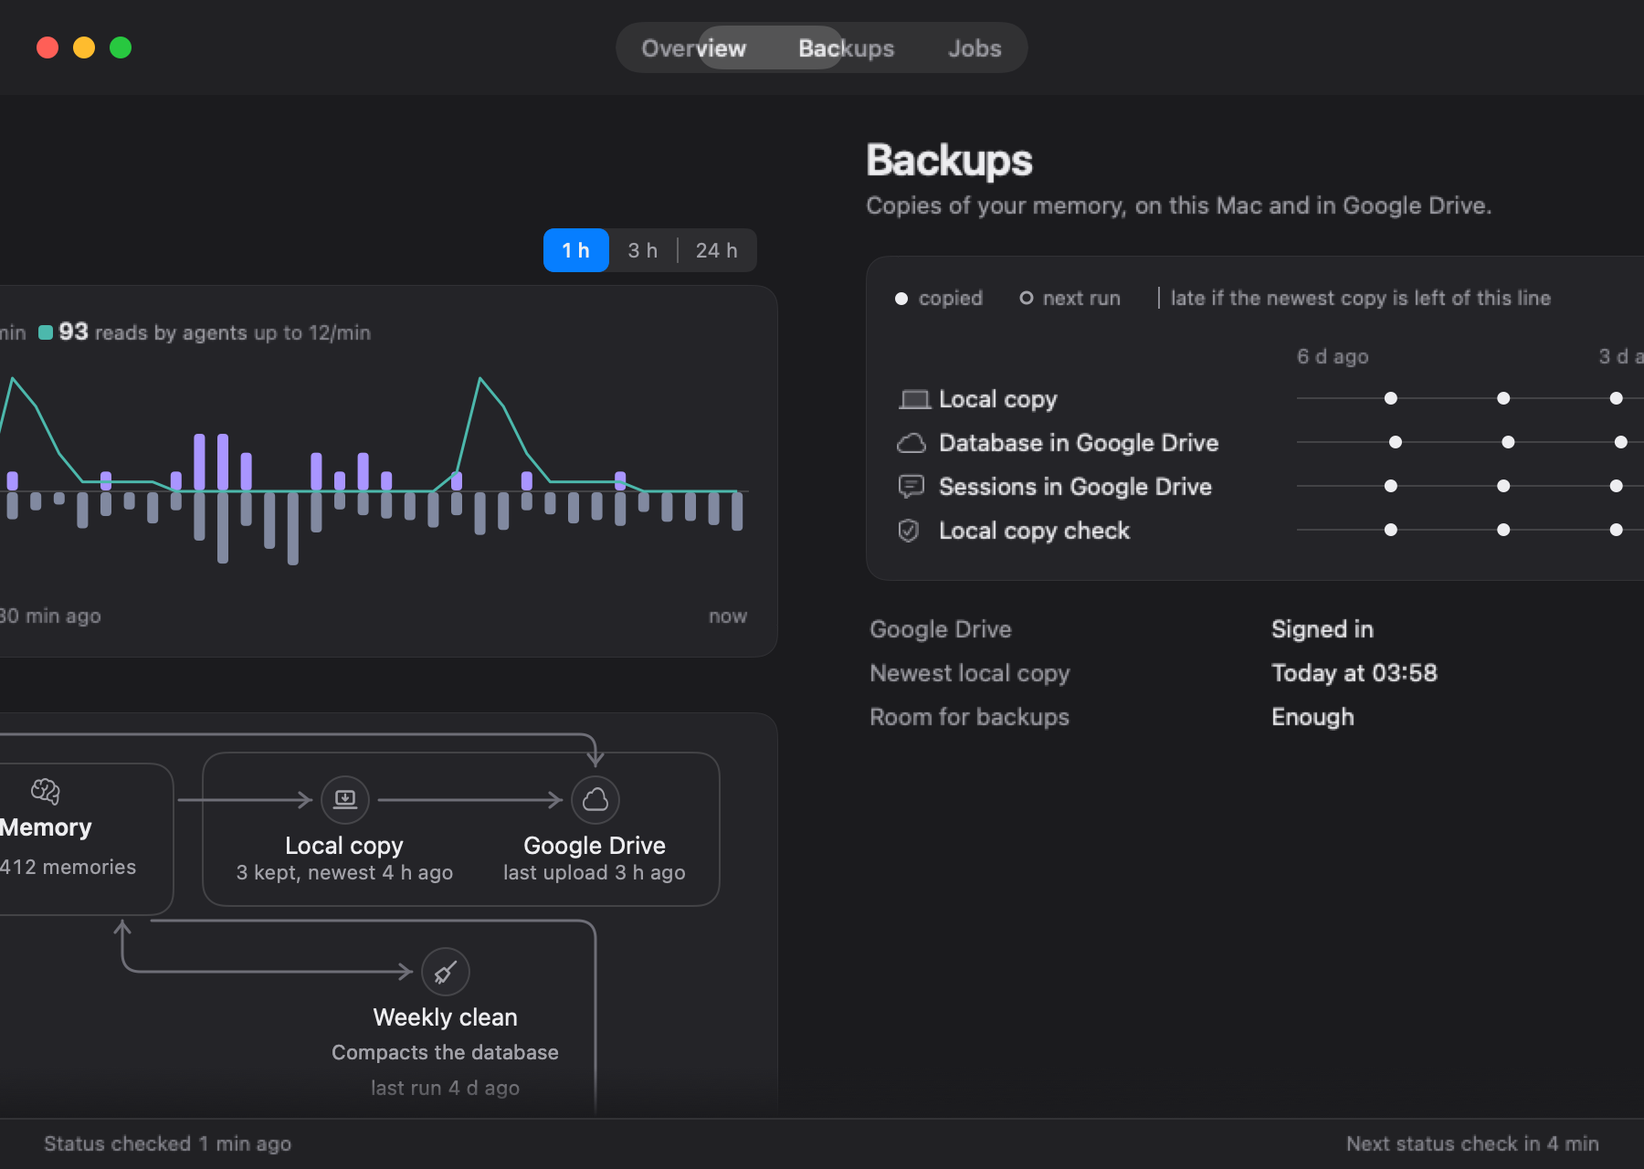
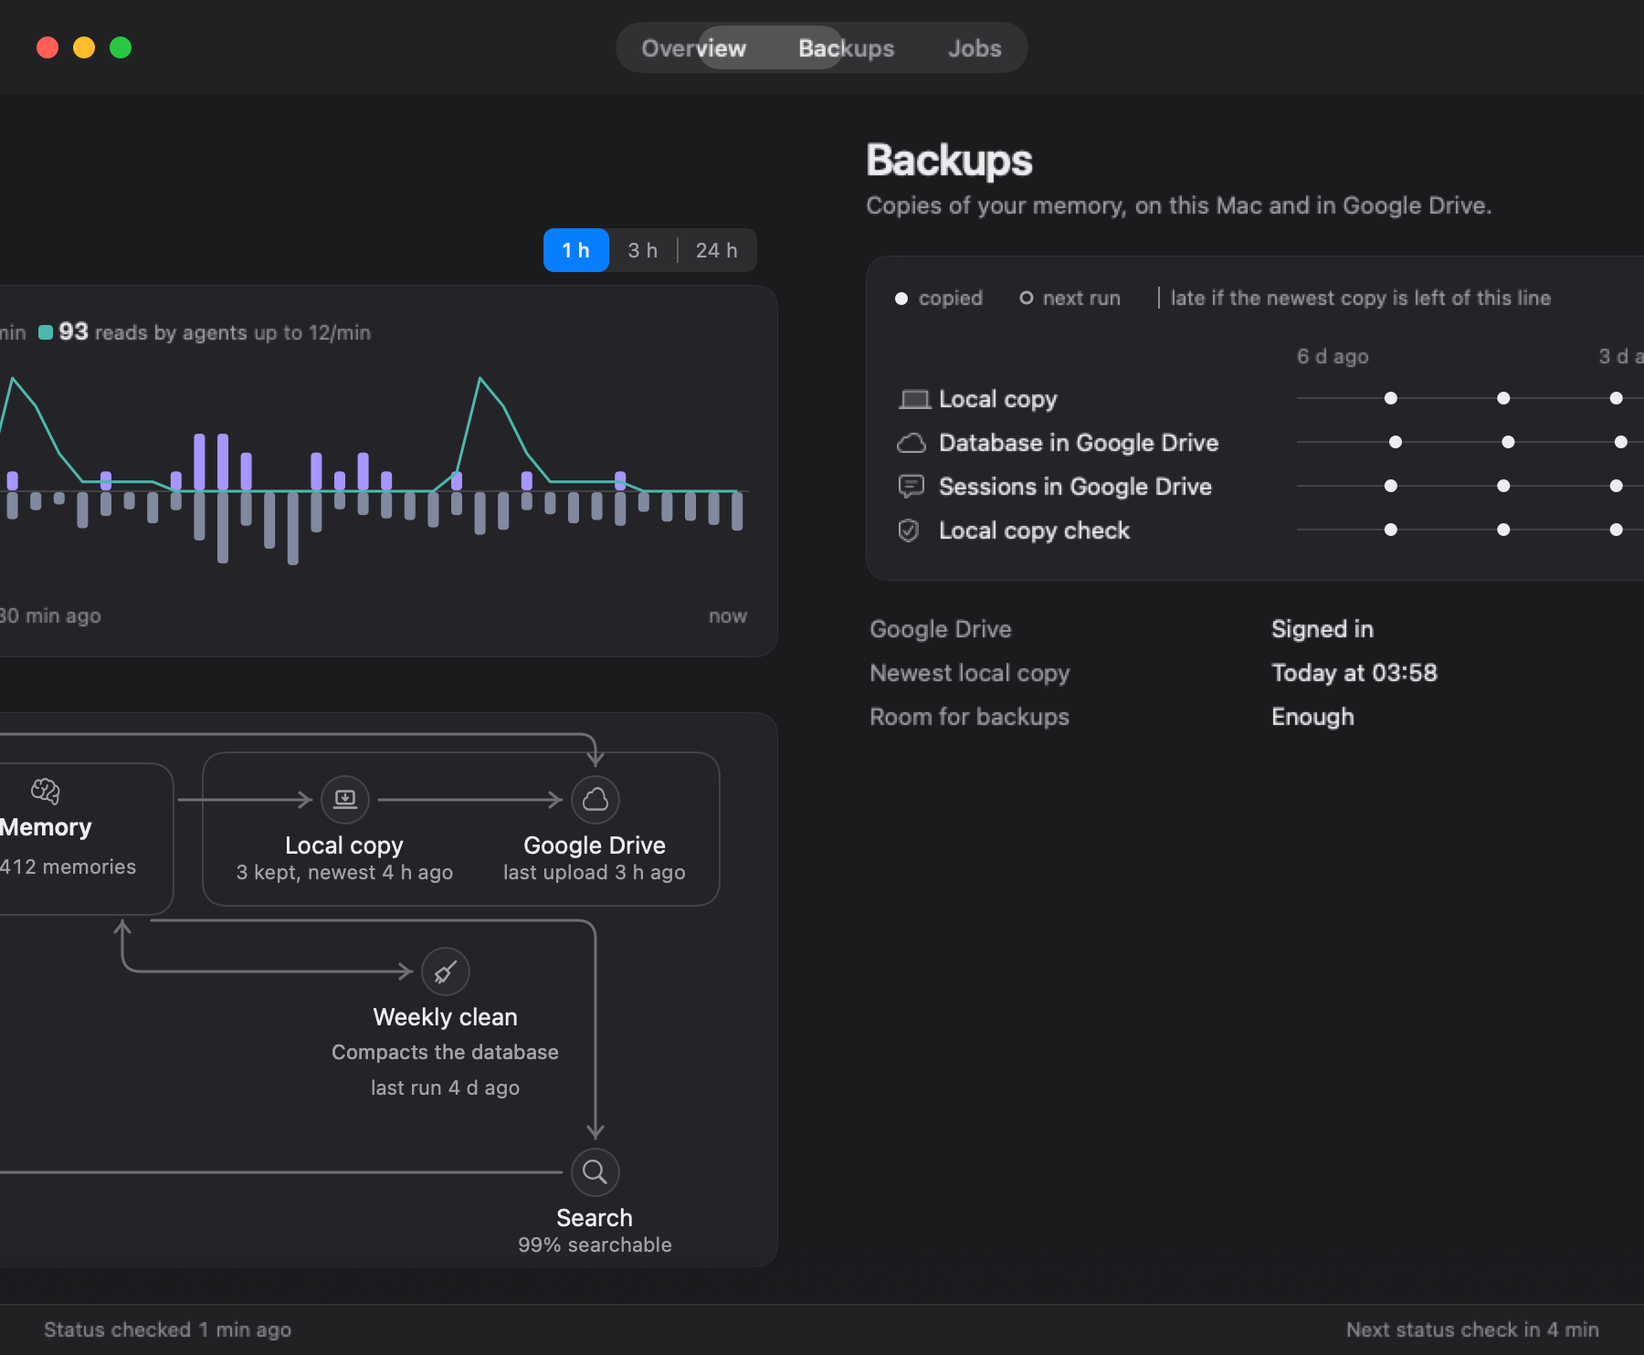
feat(brainbar): one window height for every tab (the tallest page's)
Orc ruling (27 Nov, two-way door): the window keeps one height for all three
tabs, the tallest page's, clamped to the visible screen; shorter pages sit at
the top with room below. A tab switch or swipe never resizes the window; it
changes only when the tallest page's content height changes. L17's per-page
heights stay behind NDWindowSizing.perPageHeights (one line to switch back);
the per-page tests and the r1 height guards run on that flag-on path.

diff --git a/brain-bar/Tests/BrainBarTests/BrainBarTabsFollowFingersTests.swift b/brain-bar/Tests/BrainBarTests/BrainBarTabsFollowFingersTests.swift
@@ -220,8 +220,10 @@ final class BrainBarTabsFollowFingersTests: XCTestCase {
 
     /// A controller on the real path, with a live pager and the resize seam; `finishes` decides whether the resize
     /// lands at once or waits for the test.
-    private func liveController() -> BrainBarDashboardPanelController {
+    private func liveController(perPageHeights: Bool) -> BrainBarDashboardPanelController {
         NSApplication.shared.setActivationPolicy(.prohibited)
+        NDWindowSizing.perPageHeights = perPageHeights
+        addTeardownBlock { @MainActor in NDWindowSizing.perPageHeights = false }
         let controller = BrainBarDashboardPanelController(workspace: BrainBarRecordingWorkspace(), runtime: BrainBarRuntime())
         controller.visibleHeightOverride = 2000
         controller.reduceMotionForTesting = false
@@ -238,9 +240,10 @@ final class BrainBarTabsFollowFingersTests: XCTestCase {
     /// QA r2 (1.6.13): the window resized to the new page right after each swap. Review r1 (B1): a store update while
     /// the tabs move must not refit either. On the controller's real path, with the run loop turning between frames and
     /// the store publishing mid-swipe, the window's height never changes on a frame where the pill and pages are
-    /// between tabs; it moves once, after they rest, on the existing 200 ms resize.
+    /// between tabs; it moves once, after they rest, on the existing 200 ms resize. (L17's per-page heights: the
+    /// flag-on path of `NDWindowSizing`; the default fixed height is the next test.)
     func testTheWindowHeightHoldsWhileTwoPagesShareIt() throws {
-        let controller = liveController()
+        let controller = liveController(perPageHeights: true)
         let store = controller.newDesignStore
         let window = controller.windowForTesting
         var resizes: [(progress: Double, from: CGFloat, to: CGFloat)] = []
@@ -310,11 +313,110 @@ final class BrainBarTabsFollowFingersTests: XCTestCase {
         XCTAssertGreaterThan(fractionalFrames, 60, "the checks ran on frames between tabs")
     }
 
+    /// Orc ruling 27 Nov 22:18: one window height for all three tabs, the tallest page's, clamped to the screen. On the
+    /// controller's real path the height is identical on every page and on every frame of a swipe, a click and their
+    /// settles (no resize at all); it changes only when the tallest page's content height changes.
+    func testTheFixedWindowHeightIsTheTallestPagesOnEveryPageAndFrame() throws {
+        XCTAssertFalse(NDWindowSizing.perPageHeights, "fixed height is the default")
+        let controller = liveController(perPageHeights: false)
+        let store = controller.newDesignStore
+        let window = controller.windowForTesting
+        var resizes = 0
+        controller.pageFrameAnimatorForTesting = { target, _, _, finish in
+            resizes += 1
+            window.setFrame(target, display: false)
+            finish()
+        }
+        let tallest = NDPage.allCases.map {
+            NDPageHeight.window(store, page: $0, screen: controller.fitScreenHeight, titleBarHeight: controller.fitTitleBarHeight)
+        }.max()!
+        for page in NDPage.allCases {
+            XCTAssertEqual(NDPageHeight.fitted(store, page: page, screen: controller.fitScreenHeight,
+                                               titleBarHeight: controller.fitTitleBarHeight), tallest, "\(page): the tallest page's")
+        }
+        let height = window.frame.height
+        XCTAssertGreaterThanOrEqual(window.contentRect(forFrameRect: window.frame).height, tallest - 0.5)
+        var time = 100.0
+        var frames = 0
+        func check(_ name: String) {
+            yieldToObservers()
+            frames += 1
+            XCTAssertEqual(window.frame.height, height, "\(name): one height on every frame")
+        }
+        // Every page by swipe (there and back), and by click (far tab, and back mid-settle).
+        for dx: CGFloat in [-12, -12, 12, 12] {
+            store.drivePages(.grab(dx * 3), at: time, width: NDGrid.windowWidth)
+            for _ in 0..<45 {
+                time += frame
+                store.drivePages(.move(dx), at: time, width: NDGrid.windowWidth)
+                check("swipe")
+            }
+            time += frame
+            store.drivePages(.release, at: time, width: NDGrid.windowWidth)
+            for _ in 0..<120 where store.tabs.phase != .resting {
+                time += frame
+                store.tabs.tick(at: time)
+                check("swipe settle")
+            }
+            yieldToObservers()
+            check("rest on \(store.page)")
+        }
+        XCTAssertEqual(store.page, .overview, "the swipes went to Jobs and back")
+        store.tabs.select(2, at: time)
+        for _ in 0..<10 {
+            time += frame
+            store.tabs.tick(at: time)
+            check("click")
+        }
+        store.tabs.select(0, at: time)
+        for _ in 0..<120 where store.tabs.phase != .resting {
+            time += frame
+            store.tabs.tick(at: time)
+            check("click back")
+        }
+        yieldToObservers()
+        check("rest")
+        XCTAssertEqual(resizes, 0, "no tab switch resized the window")
+        XCTAssertGreaterThan(frames, 300)
+
+        // Only a change in the tallest page's content height moves it: a screen that caps the window lower refits it
+        // once (the L57 clamp), and a tab switch after that still changes nothing.
+        controller.visibleHeightOverride = tallest - 100 + controller.fitTitleBarHeight
+        controller.fitPage(store.page)
+        XCTAssertEqual(resizes, 1, "the tallest height changed: one refit")
+        let capped = window.frame.height
+        XCTAssertLessThan(capped, height)
+        store.tabs.select(1, at: time)
+        for _ in 0..<120 where store.tabs.phase != .resting {
+            time += frame
+            store.tabs.tick(at: time)
+        }
+        yieldToObservers()
+        XCTAssertEqual(window.frame.height, capped, "a tab switch never resizes")
+        XCTAssertEqual(resizes, 1)
+    }
+
+    /// Fixed height in the pure function: every page of a store gets its tallest page's height, and it moves only with
+    /// that page's content (calm → two faults lengthens Overview, the tallest).
+    func testTheFixedHeightFollowsOnlyTheTallestPage() {
+        let calm = NDStore(fixture: BrainBarDesignFixture.inputs(.calm), page: .overview)
+        let faults = NDStore(fixture: BrainBarDesignFixture.inputs(.twoFaults), page: .overview)
+        for store in [calm, faults] {
+            let own = NDPage.allCases.map { NDPageHeight.window(store, page: $0, screen: nil) }
+            for page in NDPage.allCases { XCTAssertEqual(NDPageHeight.fitted(store, page: page, screen: nil), own.max()) }
+        }
+        XCTAssertEqual(NDPageHeight.fitted(calm, page: .backups, screen: 500), 500, "clamped to the visible screen (L57)")
+        NDWindowSizing.perPageHeights = true
+        defer { NDWindowSizing.perPageHeights = false }
+        XCTAssertEqual(NDPageHeight.fitted(calm, page: .backups, screen: nil), NDPageHeight.window(calm, page: .backups, screen: nil),
+                       "the flag brings back L17's per-page height")
+    }
+
     /// Review r1 (B3): a new swipe or click during the 200 ms resize that follows a rest lands the window on that
     /// resize's target at once, before anything moves; no frame between tabs changes the height. The seam here keeps
     /// the resize running (it never calls `finish` itself).
     func testANewSwipeDuringTheResizeLandsTheWindowFirst() throws {
-        let controller = liveController()
+        let controller = liveController(perPageHeights: true) // only per-page heights resize after a rest
         let store = controller.newDesignStore
         let window = controller.windowForTesting
         var running: (target: NSRect, finish: () -> Void)?
@@ -595,9 +697,14 @@ final class BrainBarTabsFollowFingersTests: XCTestCase {
                 try NDRenderHarness.write(try NDRenderHarness.host(view, size: size, appearance: appearance),
                                           name: "after-header-\(name)-solid-\(suffix)", in: url)
             }
+            // The window at each page and mid-swipe, at the one fixed height (the tallest page's).
+            for page in NDPage.allCases {
+                let store = NDStore(fixture: BrainBarDesignFixture.inputs(.twoFaults), page: page)
+                _ = try NDRenderHarness.window(store, name: "after-window-fixed-\(page.rawValue)-\(suffix)", appearance: appearance, in: url)
+            }
             let window = NDStore(fixture: BrainBarDesignFixture.inputs(.calm), page: .overview)
             window.tabs.present(0.5)
-            let size = NSSize(width: NDGrid.windowWidth, height: 640)
+            let size = NSSize(width: NDGrid.windowWidth, height: NDPageHeight.fitted(window, page: .overview, screen: nil))
             let root = NDWindowRoot(store: window, drawsTrafficLights: true).environment(\.glassTabSolidPill, true)
                 .frame(width: size.width, height: size.height)
             try NDRenderHarness.write(try NDRenderHarness.host(root, size: size, appearance: appearance),

diff --git a/brain-bar/Tests/BrainBarTests/BrainBarNewDesignTests.swift b/brain-bar/Tests/BrainBarTests/BrainBarNewDesignTests.swift
@@ -91,6 +91,9 @@ import SwiftUI
     /// AppKit's): the sequence is "new page first, then the height", in both directions, and no frame of the resize
     /// draws the old page.
     func testR18PageSwitchShowsTheNewPageFirstOnTheRealPath() throws {
+        // L17's per-page heights (`NDWindowSizing.perPageHeights`, off by default since 27 Nov): the flag-on path.
+        NDWindowSizing.perPageHeights = true
+        defer { NDWindowSizing.perPageHeights = false }
         let d = defaults()
         d.set("new", forKey: BrainBarDesign.key)
         let controller = BrainBarDashboardPanelController(workspace: BrainBarRecordingWorkspace(), runtime: BrainBarRuntime())
@@ -277,8 +280,9 @@ import SwiftUI
             XCTAssertEqual(store.drawnPageForTesting, page, "the window root drew the page the tab names")
             XCTAssertEqual(store.tabs.selection, index, "the selected tab names the same page")
             XCTAssertEqual(store.tabs.progress, Double(index), "a window never shown lands at once")
-            // L25: the page's height, capped the way the controller caps it (the runner's screen is small: 644 pt).
-            let height = NDPageHeight.window(store, page: page, screen: controller.fitScreenHeight, titleBarHeight: controller.fitTitleBarHeight)
+            // L25: the window's fitted height (`NDWindowSizing`: the tallest page's, or the page's own under L17), capped
+            // the way the controller caps it (the runner's screen is small: 644 pt).
+            let height = NDPageHeight.fitted(store, page: page, screen: controller.fitScreenHeight, titleBarHeight: controller.fitTitleBarHeight)
             let held = controller.windowWillResize(window, to: NSSize(width: 1200, height: 300)).height
             for measured in [window.frame.height, held] {
                 XCTAssertGreaterThanOrEqual(measured, height - 0.5, "\(page): the height follows the same page")
@@ -333,14 +337,14 @@ import SwiftUI
         // Review blocker 1: one unified 52 pt row, the pages control centred in the toolbar.
         XCTAssertEqual(controller.windowForTesting.toolbarStyle, .unified)
         XCTAssertEqual(controller.windowForTesting.toolbar?.centeredItemIdentifiers, [NDToolbar.pages])
-        // L17: the window is 900 wide and takes the page's own height (Overview 716, R1.1), min = max; a tab switch snaps
-        // it to the next page's height with the top edge fixed.
+        // The window is 900 wide and takes its fitted height (`NDWindowSizing`: the tallest page's for every tab, or
+        // under L17 the page's own, Overview 716, R1.1), min = max; a tab switch keeps the top edge fixed.
         // AppKit may add the unified toolbar's chrome to a content size it holds (20 pt on macOS 27 headless, 24 on CI's
         // macOS 15, 0 measured on the capture Mac's macOS 26), so heights are pinned to [page, page + one 52 pt row].
         let window = controller.windowForTesting
         func holds(_ page: NDPage, _ line: UInt = #line) {
             // L57: the measured page, capped at the visible screen minus actual AppKit chrome.
-            let h = NDPageHeight.window(controller.newDesignStore, page: page, screen: controller.fitScreenHeight, titleBarHeight: controller.fitTitleBarHeight)
+            let h = NDPageHeight.fitted(controller.newDesignStore, page: page, screen: controller.fitScreenHeight, titleBarHeight: controller.fitTitleBarHeight)
             let held = controller.windowWillResize(window, to: NSSize(width: 1400, height: 200))
             XCTAssertEqual(held.width, 900, "not resizable: the delegate holds the page size", line: line)
             XCTAssertGreaterThanOrEqual(held.height, h, line: line)

diff --git a/brain-bar/Sources/BrainBar/NewDesign/NDWindow.swift b/brain-bar/Sources/BrainBar/NewDesign/NDWindow.swift
@@ -4,7 +4,8 @@ import SwiftUI
 private typealias Say = BrainBarMenuPresenter.SurfaceSay
 
 /// The window (DESIGN-SPEC-R1 § 2.3 to 2.6): a unified 52 pt title bar holding only the centred tabs, the pages, and a
-/// 28 pt footer that says when it was checked. Each page takes its own height (L17). The pages and the tabs' glass pill
+/// 28 pt footer that says when it was checked. The height is the tallest page's for every tab (`NDWindowSizing`; L17's
+/// per-page heights are one flag away). The pages and the tabs' glass pill
 /// follow a two-finger swipe live and settle on one spring after it or after a click (the shared tab-swipe spec,
 /// `GlassTabPager`); under Reduce Motion the pages cross-fade in place.
 struct NDWindowRoot: View {
@@ -940,7 +941,20 @@ struct NDButtonStyle: ButtonStyle {
     }
 }
 
-// MARK: - Page height (L17)
+// MARK: - Page height (L17, switchable)
+
+/// How the window's height is chosen.
+///
+/// - `perPageHeights == false` (ACTIVE, orc ruling 27 Nov 2026, 22:18, a two-way door): one fixed height for all three
+///   tabs, the tallest page's, clamped to the visible screen (L57); a shorter page sits at the top with room below. A
+///   tab switch or a swipe never resizes the window; it changes only when the tallest page's content height changes.
+///   Why: with pages that follow the fingers side by side, a per-page height either resizes mid-swipe or after the
+///   rest, and the owner saw that after-swap resize as a layout shift (QA r2, 1.6.13).
+/// - `perPageHeights == true` (L17 as ratified): each page takes its own height; the resize waits for the tabs to
+///   rest (tab-swipe spec 4). Switching back is this one line.
+@MainActor enum NDWindowSizing {
+    static var perPageHeights = false
+}
 
 /// L57: measure the current page and cap its content area at the visible screen minus AppKit chrome.
 @MainActor enum NDPageHeight {
@@ -957,6 +971,12 @@ struct NDButtonStyle: ButtonStyle {
         }
         let hosting = NSHostingController(rootView: view.frame(width: width).environment(\.ndPalette, .window))
         return ceil(hosting.sizeThatFits(in: CGSize(width: width, height: CGFloat.greatestFiniteMagnitude)).height)
+    }
+
+    /// The window's height for `page` under `NDWindowSizing`: the page's own (L17), or the tallest page's (fixed).
+    static func fitted(_ store: NDStore, page: NDPage, screen: CGFloat?, titleBarHeight: CGFloat = 0) -> CGFloat {
+        guard !NDWindowSizing.perPageHeights else { return window(store, page: page, screen: screen, titleBarHeight: titleBarHeight) }
+        return NDPage.allCases.map { window(store, page: $0, screen: screen, titleBarHeight: titleBarHeight) }.max() ?? 0
     }
 
     /// L57 replaces the fixed 40 pt allowance with the actual AppKit title-bar height.

diff --git a/brain-bar/Sources/BrainBar/BrainBarDashboardPanelController.swift b/brain-bar/Sources/BrainBar/BrainBarDashboardPanelController.swift
@@ -294,7 +294,8 @@ final class BrainBarDashboardPanelController: NSObject, NSWindowDelegate {
         window.toolbar = newDesignToolbar.toolbar
         window.toolbarStyle = .unified
         window.titlebarSeparatorStyle = .none  // the root draws the one hairline at 52 pt
-        // L17: the window takes each page's own height, width 900, and snaps on a tab switch with the top edge fixed.
+        // Width 900; the height is the tallest page's (or, with `NDWindowSizing.perPageHeights`, L17's per-page height,
+        // resized on a tab switch with the top edge fixed).
         fitPage(newDesignStore.page)
         if pageObserver == nil {
             // D1: after the page is stored (didSet), never from `$page` (willSet).
@@ -412,7 +413,7 @@ final class BrainBarDashboardPanelController: NSObject, NSWindowDelegate {
             return
         }
         let size = NSSize(width: NDGrid.windowWidth,
-                          height: NDPageHeight.window(newDesignStore, page: page, screen: fitScreenHeight,
+                          height: NDPageHeight.fitted(newDesignStore, page: page, screen: fitScreenHeight,
                                                       titleBarHeight: fitTitleBarHeight))
         let frameSize = window.frameRect(forContentRect: NSRect(origin: .zero, size: size)).size
         let target = NDPageHeight.frame(size: frameSize, keeping: window.frame, visibleFrame: fitVisibleFrame)
@@ -617,7 +618,7 @@ final class BrainBarDashboardPanelController: NSObject, NSWindowDelegate {
     /// A real window resizes on both axes, down to the size the dashboard needs.
     func windowWillResize(_ sender: NSWindow, to frameSize: NSSize) -> NSSize {
 #if BRAINBAR_UI
-        // L17: the new design's window is the page's size; the delegate holds it even if AppKit's layout clears the
+        // L17 / NDWindowSizing: the new design's window is the fitted size; the delegate holds it even if AppKit's layout clears the
         // content limits (it keeps one pair of size limits, and the toolbar's own layout can reset it).
         if let fitted = fittedFrameSize { return fitted }
         let minimum = currentMinSize

diff --git a/brain-bar/Sources/BrainBar/NewDesign/NDRenderHarness.swift b/brain-bar/Sources/BrainBar/NewDesign/NDRenderHarness.swift
@@ -99,9 +99,11 @@ import SwiftUI
 
     static func window(_ store: NDStore, name: String, appearance: NSAppearance.Name, size: NSSize? = nil,
                        in directory: URL) throws -> String {
-        // L17: each page at its own height.
-        let size = size ?? NSSize(width: NDGrid.windowWidth, height: NDPageHeight.window(store, page: store.page, screen: nil))
-        let view = NDWindowRoot(store: store, drawsTrafficLights: true).frame(width: size.width, height: size.height)
+        // The window's fitted height (`NDWindowSizing`: the tallest page's, or L17's per-page height).
+        let size = size ?? NSSize(width: NDGrid.windowWidth, height: NDPageHeight.fitted(store, page: store.page, screen: nil))
+        // `cacheDisplay` cannot capture Liquid Glass, so the tab pill is drawn as its solid stand-in.
+        let view = NDWindowRoot(store: store, drawsTrafficLights: true).environment(\.glassTabSolidPill, true)
+            .frame(width: size.width, height: size.height)
         try write(host(view, size: size, appearance: appearance), name: name, in: directory)
         return name
     }

diff --git a/brain-bar/Sources/BrainBar/NewDesign/NDStore.swift b/brain-bar/Sources/BrainBar/NewDesign/NDStore.swift
@@ -23,7 +23,7 @@ import SwiftUI
             // A change made anywhere else (a menu item, a test) moves the tabs and pages too; one made by the tabs is
             // already their selection.
             tabs.follow(NDPage.allCases.firstIndex(of: page) ?? 0)
-            // The window's height (L17) waits for the pill and pages to come to rest: while two pages share the window
+            // A window refit (a per-page height under L17) waits for the pill and pages to come to rest: while two pages share the window
             // mid-swipe or mid-settle, nothing but the pages and the pill moves (tab-swipe spec 4; the QA judge saw the
             // height change right after each page swap on 1.6.13).
             guard tabs.phase == .resting else {

diff --git a/brain-bar/Sources/BrainBar/NewDesign/BrainBarDesign.swift b/brain-bar/Sources/BrainBar/NewDesign/BrainBarDesign.swift
@@ -236,7 +236,8 @@ enum NDType {
 /// R1 geometry (§ 1.3, § 2.6): a 4 pt grid, 24 pt rows, a 900 pt window that takes each page's height.
 enum NDGrid {
     static let windowWidth: CGFloat = 900
-    /// L17: each page's own height (the window snaps to it on a tab switch, top edge fixed, no animation).
+    /// L17: each page's own height (in use only with `NDWindowSizing.perPageHeights`; the window is otherwise the
+    /// tallest page's height for every tab).
     static func windowHeight(_ page: NDPage) -> CGFloat {
         switch page {
         case .overview: 716
